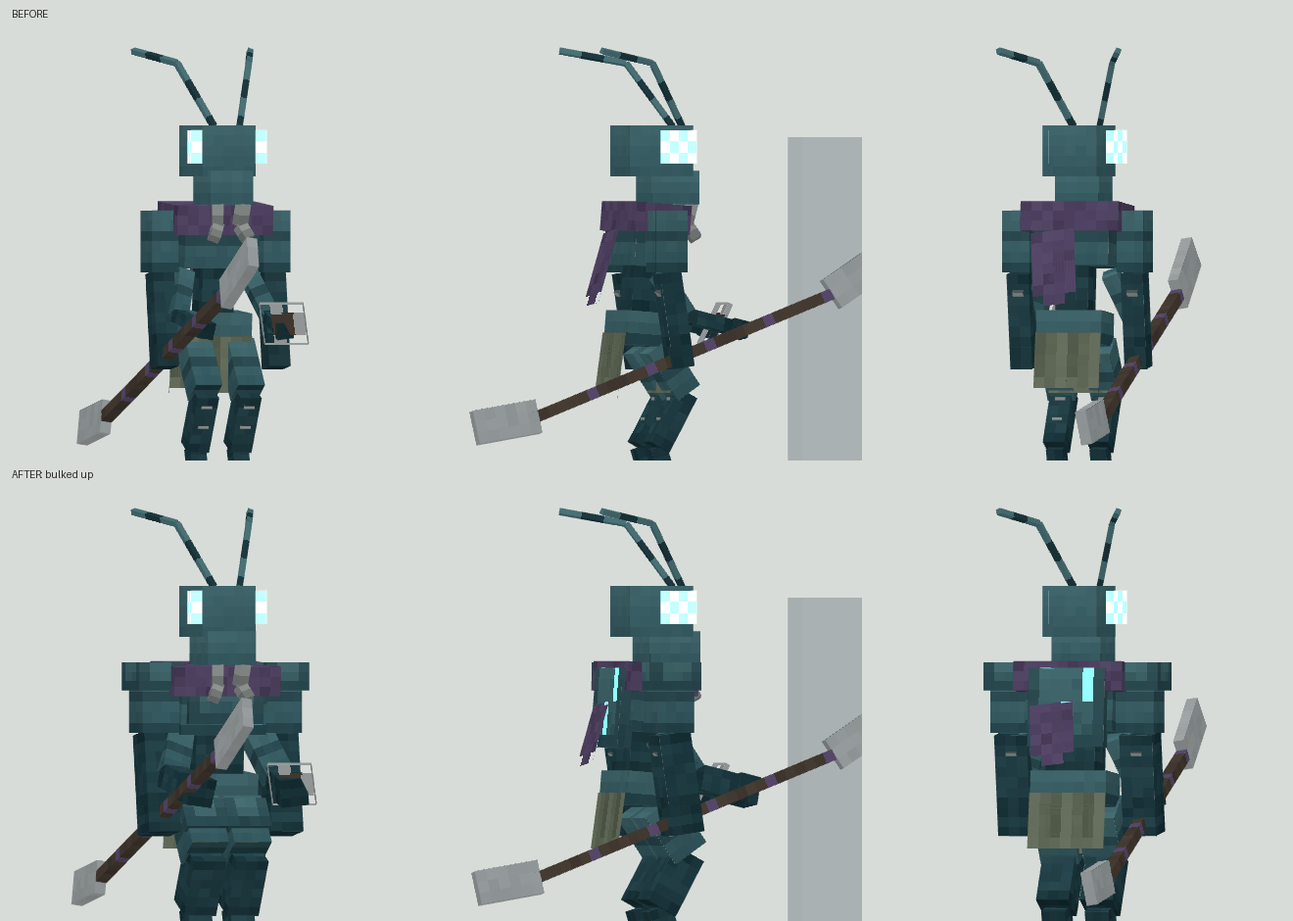
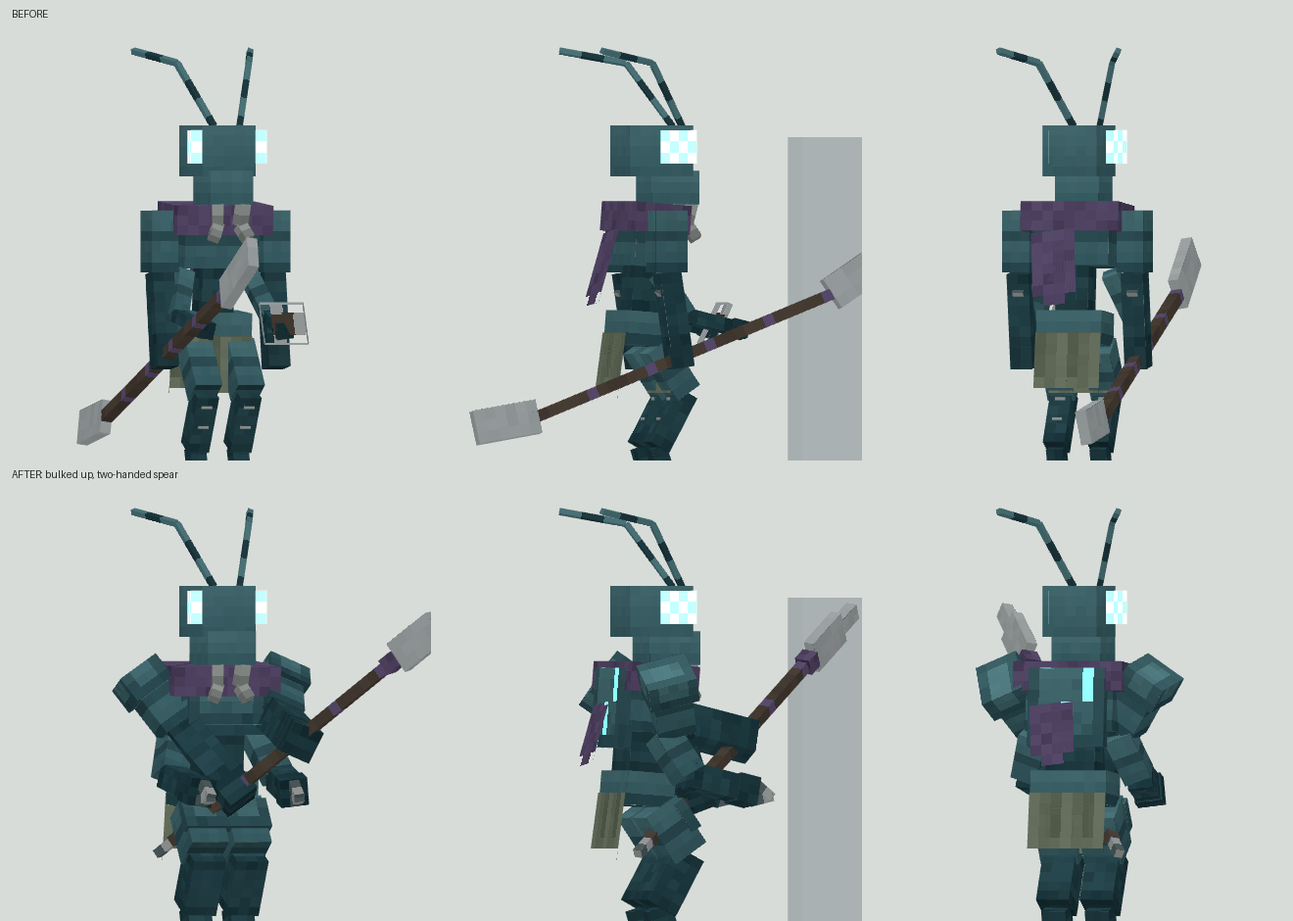
Lancer-Drone: a two-handed spear, clawed lower hands
The double-bladed staff is now a spear (long haft, leaf-shaped head,
butt spike) held in both upper hands at the ready, so no hand hangs
empty; LancerModel keeps the pose in game and thrusts on attack. The
three-pointed throwing blade is gone (it read as an empty frame) and
the lower hands get hooked claws.

Claude-Session: https://claude.ai/code/session_01EWJoGWZ8sZFDomPfmPJbYJ

diff --git a/mods/warfront/src/main/java/com/warfront/client/model/UnitGeometry.java b/mods/warfront/src/main/java/com/warfront/client/model/UnitGeometry.java
@@ -326,103 +326,111 @@ public final class UnitGeometry {
     public static LayerDefinition hive_lancer() {
         MeshDefinition mesh = new MeshDefinition();
         PartDefinition root = mesh.getRoot();
-        PartDefinition p0 = root.addOrReplaceChild("head", CubeListBuilder.create().texOffs(4, 0).addBox(-2.5F, -7.5F, -3F, 5F, 4.5F, 6F).texOffs(0, 41).addBox(-2.25F, -3.5F, -3.75F, 4.5F, 3F, 4.75F),
+        PartDefinition p0 = root.addOrReplaceChild("head", CubeListBuilder.create().texOffs(4, 0).addBox(-2.5F, -7.5F, -3F, 5F, 4.5F, 6F).texOffs(102, 29).addBox(-2.25F, -3.5F, -3.75F, 4.5F, 3F, 4.75F),
                 PartPose.offsetAndRotation(0F, 0F, -0.5F, 0F, 0F, 0F));
-        PartDefinition p1 = p0.addOrReplaceChild("eye_r", CubeListBuilder.create().texOffs(36, 49).addBox(-0.8F, -1.5F, -1.6F, 1F, 3F, 3.2F),
+        PartDefinition p1 = p0.addOrReplaceChild("eye_r", CubeListBuilder.create().texOffs(18, 47).addBox(-0.8F, -1.5F, -1.6F, 1F, 3F, 3.2F),
                 PartPose.offsetAndRotation(-2.4F, -5.6F, -1.6F, 0F, 0.25F, 0F));
-        PartDefinition p2 = p0.addOrReplaceChild("mandible_r", CubeListBuilder.create().texOffs(10, 63).addBox(-0.5F, 0F, -0.5F, 1F, 2F, 1F),
+        PartDefinition p2 = p0.addOrReplaceChild("mandible_r", CubeListBuilder.create().texOffs(122, 55).addBox(-0.5F, 0F, -0.5F, 1F, 2F, 1F),
                 PartPose.offsetAndRotation(-1.2F, -0.6F, -3.4F, 0.25F, 0.3F, 0F));
-        PartDefinition p3 = p2.addOrReplaceChild("mandible_r_tip", CubeListBuilder.create().texOffs(14, 63).addBox(-0.5F, 0F, -0.5F, 1F, 1.5F, 1F),
+        PartDefinition p3 = p2.addOrReplaceChild("mandible_r_tip", CubeListBuilder.create().texOffs(0, 61).addBox(-0.5F, 0F, -0.5F, 1F, 1.5F, 1F),
                 PartPose.offsetAndRotation(0F, 2F, 0F, -0.8F, 0F, 0.35F));
-        PartDefinition p4 = p0.addOrReplaceChild("antenna_r", CubeListBuilder.create().texOffs(20, 41).addBox(-0.25F, -7F, -0.25F, 0.5F, 7F, 0.5F),
+        PartDefinition p4 = p0.addOrReplaceChild("antenna_r", CubeListBuilder.create().texOffs(122, 29).addBox(-0.25F, -7F, -0.25F, 0.5F, 7F, 0.5F),
                 PartPose.offsetAndRotation(-1.2F, -7.4F, -2.4F, -0.55F, -0.2F, -0.25F));
-        PartDefinition p5 = p4.addOrReplaceChild("antenna_r_tip", CubeListBuilder.create().texOffs(46, 49).addBox(-0.25F, -6F, -0.25F, 0.5F, 6F, 0.5F),
+        PartDefinition p5 = p4.addOrReplaceChild("antenna_r_tip", CubeListBuilder.create().texOffs(28, 47).addBox(-0.25F, -6F, -0.25F, 0.5F, 6F, 0.5F),
                 PartPose.offsetAndRotation(0F, -7F, 0F, -0.75F, 0F, -0.15F));
-        PartDefinition p6 = p0.addOrReplaceChild("eye_l", CubeListBuilder.create().texOffs(50, 49).mirror().addBox(-0.2F, -1.5F, -1.6F, 1F, 3F, 3.2F).mirror(false),
+        PartDefinition p6 = p0.addOrReplaceChild("eye_l", CubeListBuilder.create().texOffs(32, 47).mirror().addBox(-0.2F, -1.5F, -1.6F, 1F, 3F, 3.2F).mirror(false),
                 PartPose.offsetAndRotation(2.4F, -5.6F, -1.6F, 0F, -0.25F, 0F));
-        PartDefinition p7 = p0.addOrReplaceChild("mandible_l", CubeListBuilder.create().texOffs(18, 63).mirror().addBox(-0.5F, 0F, -0.5F, 1F, 2F, 1F).mirror(false),
+        PartDefinition p7 = p0.addOrReplaceChild("mandible_l", CubeListBuilder.create().texOffs(4, 61).mirror().addBox(-0.5F, 0F, -0.5F, 1F, 2F, 1F).mirror(false),
                 PartPose.offsetAndRotation(1.2F, -0.6F, -3.4F, 0.25F, -0.3F, 0F));
-        PartDefinition p8 = p7.addOrReplaceChild("mandible_l_tip", CubeListBuilder.create().texOffs(22, 63).mirror().addBox(-0.5F, 0F, -0.5F, 1F, 1.5F, 1F).mirror(false),
+        PartDefinition p8 = p7.addOrReplaceChild("mandible_l_tip", CubeListBuilder.create().texOffs(8, 61).mirror().addBox(-0.5F, 0F, -0.5F, 1F, 1.5F, 1F).mirror(false),
                 PartPose.offsetAndRotation(0F, 2F, 0F, -0.8F, 0F, -0.35F));
-        PartDefinition p9 = p0.addOrReplaceChild("antenna_l", CubeListBuilder.create().texOffs(24, 41).mirror().addBox(-0.25F, -7F, -0.25F, 0.5F, 7F, 0.5F).mirror(false),
+        PartDefinition p9 = p0.addOrReplaceChild("antenna_l", CubeListBuilder.create().texOffs(0, 39).mirror().addBox(-0.25F, -7F, -0.25F, 0.5F, 7F, 0.5F).mirror(false),
                 PartPose.offsetAndRotation(1.2F, -7.4F, -2.4F, -0.55F, 0.2F, 0.25F));
-        PartDefinition p10 = p9.addOrReplaceChild("antenna_l_tip", CubeListBuilder.create().texOffs(60, 49).mirror().addBox(-0.25F, -6F, -0.25F, 0.5F, 6F, 0.5F).mirror(false),
+        PartDefinition p10 = p9.addOrReplaceChild("antenna_l_tip", CubeListBuilder.create().texOffs(42, 47).mirror().addBox(-0.25F, -6F, -0.25F, 0.5F, 6F, 0.5F).mirror(false),
                 PartPose.offsetAndRotation(0F, -7F, 0F, -0.75F, 0F, 0.15F));
         PartDefinition p11 = root.addOrReplaceChild("hat", CubeListBuilder.create(),
                 PartPose.offsetAndRotation(0F, 0F, 0F, 0F, 0F, 0F));
-        PartDefinition p12 = root.addOrReplaceChild("body", CubeListBuilder.create().texOffs(26, 0).addBox(-4F, 0F, -2.5F, 8F, 5.5F, 5F).texOffs(24, 57).addBox(-3.5F, 0.5F, -3.1F, 7F, 4F, 0.75F).texOffs(28, 31).addBox(-3.5F, 0F, 2.2F, 7F, 7F, 1.3F).texOffs(28, 41).addBox(-2.25F, 5.5F, -1.75F, 4.5F, 3.5F, 3.5F).texOffs(46, 41).addBox(-3.5F, 9F, -2.25F, 7F, 3F, 4.5F),
+        PartDefinition p12 = root.addOrReplaceChild("body", CubeListBuilder.create().texOffs(26, 0).addBox(-4F, 0F, -2.5F, 8F, 5.5F, 5F).texOffs(12, 55).addBox(-3.5F, 0.5F, -3.1F, 7F, 4F, 0.75F).texOffs(28, 29).addBox(-3.5F, 0F, 2.2F, 7F, 7F, 1.3F).texOffs(4, 39).addBox(-2.25F, 5.5F, -1.75F, 4.5F, 3.5F, 3.5F).texOffs(22, 39).addBox(-3.5F, 9F, -2.25F, 7F, 3F, 4.5F),
                 PartPose.offsetAndRotation(0F, 0F, 0F, 0.08F, 0F, 0F));
         PartDefinition p13 = p12.addOrReplaceChild("wrap", CubeListBuilder.create().texOffs(52, 0).addBox(-5F, -0.6F, -3.2F, 10F, 2.6F, 6.4F),
                 PartPose.offsetAndRotation(0F, 0F, 0F, 0F, 0F, 0F));
-        PartDefinition p14 = p13.addOrReplaceChild("wrap_tail", CubeListBuilder.create().texOffs(64, 49).addBox(-2F, 0F, 0F, 4F, 7F, 0F),
+        PartDefinition p14 = p13.addOrReplaceChild("wrap_tail", CubeListBuilder.create().texOffs(46, 47).addBox(-2F, 0F, 0F, 4F, 7F, 0F),
                 PartPose.offsetAndRotation(1.5F, 2F, 3.2F, 0.25F, 0F, 0.12F));
-        PartDefinition p15 = p12.addOrReplaceChild("skirt_front", CubeListBuilder.create().texOffs(96, 49).addBox(-3.5F, 0F, 0F, 7F, 6F, 0F),
+        PartDefinition p15 = p12.addOrReplaceChild("skirt_front", CubeListBuilder.create().texOffs(78, 47).addBox(-3.5F, 0F, 0F, 7F, 6F, 0F),
                 PartPose.offsetAndRotation(0F, 11F, -2.4F, -0.06F, 0F, 0F));
-        PartDefinition p16 = p12.addOrReplaceChild("skirt_back", CubeListBuilder.create().texOffs(110, 49).addBox(-3.5F, 0F, 0F, 7F, 6F, 0F),
+        PartDefinition p16 = p12.addOrReplaceChild("skirt_back", CubeListBuilder.create().texOffs(92, 47).addBox(-3.5F, 0F, 0F, 7F, 6F, 0F),
                 PartPose.offsetAndRotation(0F, 11F, 2.4F, 0.06F, 0F, 0F));
-        PartDefinition p17 = p12.addOrReplaceChild("lower_arm_r", CubeListBuilder.create().texOffs(70, 41).addBox(-1.25F, 0F, -1.25F, 2.5F, 4.5F, 2.5F),
+        PartDefinition p17 = p12.addOrReplaceChild("lower_arm_r", CubeListBuilder.create().texOffs(46, 39).addBox(-1.25F, 0F, -1.25F, 2.5F, 4.5F, 2.5F),
                 PartPose.offsetAndRotation(-3.75F, 5.5F, -0.5F, -0.55F, 0F, 0.35F));
-        PartDefinition p18 = p17.addOrReplaceChild("lower_forearm_r", CubeListBuilder.create().texOffs(82, 41).addBox(-1.1F, 0F, -1.1F, 2.2F, 4.5F, 2.2F),
+        PartDefinition p18 = p17.addOrReplaceChild("lower_forearm_r", CubeListBuilder.create().texOffs(58, 39).addBox(-1.1F, 0F, -1.1F, 2.2F, 4.5F, 2.2F),
                 PartPose.offsetAndRotation(0F, 4.5F, 0F, -0.9F, 0F, -0.25F));
-        PartDefinition p19 = p18.addOrReplaceChild("lower_hand_r", CubeListBuilder.create().texOffs(40, 57).addBox(-1.25F, 0F, -1.25F, 2.5F, 2F, 2.5F),
+        PartDefinition p19 = p18.addOrReplaceChild("lower_hand_r", CubeListBuilder.create().texOffs(28, 55).addBox(-1.25F, 0F, -1.25F, 2.5F, 2F, 2.5F),
                 PartPose.offsetAndRotation(0F, 4.5F, 0F, 0F, 0F, 0F));
-        PartDefinition p20 = p12.addOrReplaceChild("lower_arm_l", CubeListBuilder.create().texOffs(94, 41).mirror().addBox(-1.25F, 0F, -1.25F, 2.5F, 4.5F, 2.5F).mirror(false),
+        PartDefinition p20 = p19.addOrReplaceChild("lower_claw_r", CubeListBuilder.create().texOffs(12, 61).addBox(-0.45F, 0F, -0.45F, 0.9F, 2F, 0.9F),
+                PartPose.offsetAndRotation(0F, 2F, -0.8F, 0.45F, 0F, 0F));
+        PartDefinition p21 = p19.addOrReplaceChild("lower_claw_r2", CubeListBuilder.create().texOffs(16, 61).addBox(-0.45F, 0F, -0.45F, 0.9F, 2F, 0.9F),
+                PartPose.offsetAndRotation(0F, 2F, 0.8F, -0.45F, 0F, 0F));
+        PartDefinition p22 = p12.addOrReplaceChild("lower_arm_l", CubeListBuilder.create().texOffs(70, 39).mirror().addBox(-1.25F, 0F, -1.25F, 2.5F, 4.5F, 2.5F).mirror(false),
                 PartPose.offsetAndRotation(3.75F, 5.5F, -0.5F, -0.55F, 0F, -0.35F));
-        PartDefinition p21 = p20.addOrReplaceChild("lower_forearm_l", CubeListBuilder.create().texOffs(106, 41).mirror().addBox(-1.1F, 0F, -1.1F, 2.2F, 4.5F, 2.2F).mirror(false),
+        PartDefinition p23 = p22.addOrReplaceChild("lower_forearm_l", CubeListBuilder.create().texOffs(82, 39).mirror().addBox(-1.1F, 0F, -1.1F, 2.2F, 4.5F, 2.2F).mirror(false),
                 PartPose.offsetAndRotation(0F, 4.5F, 0F, -0.9F, 0F, 0.25F));
-        PartDefinition p22 = p21.addOrReplaceChild("lower_hand_l", CubeListBuilder.create().texOffs(52, 57).mirror().addBox(-1.25F, 0F, -1.25F, 2.5F, 2F, 2.5F).mirror(false),
+        PartDefinition p24 = p23.addOrReplaceChild("lower_hand_l", CubeListBuilder.create().texOffs(40, 55).mirror().addBox(-1.25F, 0F, -1.25F, 2.5F, 2F, 2.5F).mirror(false),
                 PartPose.offsetAndRotation(0F, 4.5F, 0F, 0F, 0F, 0F));
-        PartDefinition p23 = p22.addOrReplaceChild("chatkcha", CubeListBuilder.create().texOffs(64, 57).addBox(-2F, -0.25F, -2F, 4F, 0.5F, 4F),
-                PartPose.offsetAndRotation(0F, 1.2F, -0.6F, 0.2F, 0F, 0.5F));
-        PartDefinition p24 = root.addOrReplaceChild("right_arm", CubeListBuilder.create().texOffs(86, 0).addBox(-2F, -2F, -1.75F, 3.5F, 5.5F, 3.5F).texOffs(0, 49).addBox(-2.5F, -2.75F, -2.25F, 4F, 2.5F, 4.5F),
-                PartPose.offsetAndRotation(-5.5F, 2F, 0F, 0F, 0F, 0F));
-        PartDefinition p25 = p24.addOrReplaceChild("forearm_r", CubeListBuilder.create().texOffs(102, 0).addBox(-1.5F, 0F, -1.5F, 3F, 6.5F, 3F),
+        PartDefinition p25 = p24.addOrReplaceChild("lower_claw_l", CubeListBuilder.create().texOffs(20, 61).mirror().addBox(-0.45F, 0F, -0.45F, 0.9F, 2F, 0.9F).mirror(false),
+                PartPose.offsetAndRotation(0F, 2F, -0.8F, 0.45F, 0F, 0F));
+        PartDefinition p26 = p24.addOrReplaceChild("lower_claw_l2", CubeListBuilder.create().texOffs(24, 61).mirror().addBox(-0.45F, 0F, -0.45F, 0.9F, 2F, 0.9F).mirror(false),
+                PartPose.offsetAndRotation(0F, 2F, 0.8F, -0.45F, 0F, 0F));
+        PartDefinition p27 = root.addOrReplaceChild("right_arm", CubeListBuilder.create().texOffs(86, 0).addBox(-2F, -2F, -1.75F, 3.5F, 5.5F, 3.5F).texOffs(94, 39).addBox(-2.5F, -2.75F, -2.25F, 4F, 2.5F, 4.5F),
+                PartPose.offsetAndRotation(-5.5F, 2F, 0F, -0.3F, 0F, -0.6F));
+        PartDefinition p28 = p27.addOrReplaceChild("forearm_r", CubeListBuilder.create().texOffs(102, 0).addBox(-1.5F, 0F, -1.5F, 3F, 6.5F, 3F),
                 PartPose.offsetAndRotation(-0.25F, 3.5F, 0F, -0.15F, 0F, 0F));
-        PartDefinition p26 = p25.addOrReplaceChild("forearm_r_spur", CubeListBuilder.create().texOffs(108, 57).addBox(-0.5F, -2.5F, -0.5F, 1F, 2.5F, 1F),
+        PartDefinition p29 = p28.addOrReplaceChild("forearm_r_spur", CubeListBuilder.create().texOffs(86, 55).addBox(-0.5F, -2.5F, -0.5F, 1F, 2.5F, 1F),
                 PartPose.offsetAndRotation(0F, 2F, 1.4F, 1F, 0F, 0F));
-        PartDefinition p27 = p25.addOrReplaceChild("hand_r", CubeListBuilder.create().texOffs(0, 57).addBox(-1.5F, 0F, -1.5F, 3F, 2.5F, 3F),
+        PartDefinition p30 = p28.addOrReplaceChild("hand_r", CubeListBuilder.create().texOffs(106, 47).addBox(-1.5F, 0F, -1.5F, 3F, 2.5F, 3F),
                 PartPose.offsetAndRotation(0F, 6.5F, 0F, 0F, 0F, 0F));
-        PartDefinition p28 = p27.addOrReplaceChild("gythka", CubeListBuilder.create().texOffs(0, 0).addBox(-0.5F, -15F, -0.5F, 1F, 30F, 1F),
-                PartPose.offsetAndRotation(0F, 1F, -0.5F, 1.35F, 0F, 0.15F));
-        PartDefinition p29 = p28.addOrReplaceChild("gythka_top", CubeListBuilder.create().texOffs(114, 0).addBox(-0.5F, -7F, -1.5F, 1F, 7F, 3F),
-                PartPose.offsetAndRotation(0F, -15F, 0F, -0.2F, 0F, 0F));
-        PartDefinition p30 = p28.addOrReplaceChild("gythka_bottom", CubeListBuilder.create().texOffs(46, 31).addBox(-0.5F, 0F, -1.5F, 1F, 6F, 3F),
-                PartPose.offsetAndRotation(0F, 15F, 0F, 0.2F, 0F, 0F));
-        PartDefinition p31 = root.addOrReplaceChild("left_arm", CubeListBuilder.create().texOffs(0, 31).mirror().addBox(-1.5F, -2F, -1.75F, 3.5F, 5.5F, 3.5F).mirror(false).texOffs(18, 49).mirror().addBox(-1.5F, -2.75F, -2.25F, 4F, 2.5F, 4.5F).mirror(false),
-                PartPose.offsetAndRotation(5.5F, 2F, 0F, 0F, 0F, 0F));
-        PartDefinition p32 = p31.addOrReplaceChild("forearm_l", CubeListBuilder.create().texOffs(16, 31).mirror().addBox(-1.5F, 0F, -1.5F, 3F, 6.5F, 3F).mirror(false),
-                PartPose.offsetAndRotation(0.25F, 3.5F, 0F, -0.15F, 0F, 0F));
-        PartDefinition p33 = p32.addOrReplaceChild("forearm_l_spur", CubeListBuilder.create().texOffs(112, 57).mirror().addBox(-0.5F, -2.5F, -0.5F, 1F, 2.5F, 1F).mirror(false),
+        PartDefinition p31 = p30.addOrReplaceChild("spear", CubeListBuilder.create().texOffs(0, 0).addBox(-0.5F, -20F, -0.5F, 1F, 28F, 1F),
+                PartPose.offsetAndRotation(0F, 1.25F, 0F, 1.7F, -0.78F, 0F));
+        PartDefinition p32 = p31.addOrReplaceChild("spear_socket", CubeListBuilder.create().texOffs(90, 55).addBox(-0.75F, -1.5F, -0.75F, 1.5F, 1.5F, 1.5F),
+                PartPose.offsetAndRotation(0F, -20F, 0F, 0F, 0F, 0F));
+        PartDefinition p33 = p31.addOrReplaceChild("spear_head", CubeListBuilder.create().texOffs(112, 39).addBox(-0.5F, -5F, -1.5F, 1F, 5F, 3F).texOffs(52, 55).addBox(-0.5F, -7.5F, -0.75F, 1F, 2.5F, 1.5F),
+                PartPose.offsetAndRotation(0F, -21.5F, 0F, 0F, 0F, 0F));
+        PartDefinition p34 = p31.addOrReplaceChild("spear_butt", CubeListBuilder.create().texOffs(28, 61).addBox(-0.4F, 0F, -0.4F, 0.8F, 2F, 0.8F),
+                PartPose.offsetAndRotation(0F, 8F, 0F, 0F, 0F, 0F));
+        PartDefinition p35 = root.addOrReplaceChild("left_arm", CubeListBuilder.create().texOffs(0, 29).mirror().addBox(-1.5F, -2F, -1.75F, 3.5F, 5.5F, 3.5F).mirror(false).texOffs(0, 47).mirror().addBox(-1.5F, -2.75F, -2.25F, 4F, 2.5F, 4.5F).mirror(false),
+                PartPose.offsetAndRotation(5.5F, 2F, 0F, -0.9F, 0F, 0.4F));
+        PartDefinition p36 = p35.addOrReplaceChild("forearm_l", CubeListBuilder.create().texOffs(16, 29).mirror().addBox(-1.5F, 0F, -1.5F, 3F, 6.5F, 3F).mirror(false),
+                PartPose.offsetAndRotation(0.25F, 3.5F, 0F, -0.4F, 0F, 0F));
+        PartDefinition p37 = p36.addOrReplaceChild("forearm_l_spur", CubeListBuilder.create().texOffs(98, 55).mirror().addBox(-0.5F, -2.5F, -0.5F, 1F, 2.5F, 1F).mirror(false),
                 PartPose.offsetAndRotation(0F, 2F, 1.4F, 1F, 0F, 0F));
-        PartDefinition p34 = p32.addOrReplaceChild("hand_l", CubeListBuilder.create().texOffs(12, 57).mirror().addBox(-1.5F, 0F, -1.5F, 3F, 2.5F, 3F).mirror(false),
+        PartDefinition p38 = p36.addOrReplaceChild("hand_l", CubeListBuilder.create().texOffs(0, 55).mirror().addBox(-1.5F, 0F, -1.5F, 3F, 2.5F, 3F).mirror(false),
                 PartPose.offsetAndRotation(0F, 6.5F, 0F, 0F, 0F, 0F));
-        PartDefinition p35 = root.addOrReplaceChild("right_leg", CubeListBuilder.create().texOffs(54, 31).addBox(-1.75F, 0F, -1.75F, 3.5F, 5F, 3.5F).texOffs(116, 57).addBox(-2F, 0.5F, -2.1F, 4F, 3F, 1F),
+        PartDefinition p39 = root.addOrReplaceChild("right_leg", CubeListBuilder.create().texOffs(46, 29).addBox(-1.75F, 0F, -1.75F, 3.5F, 5F, 3.5F).texOffs(102, 55).addBox(-2F, 0.5F, -2.1F, 4F, 3F, 1F),
                 PartPose.offsetAndRotation(-2F, 12F, 0F, -0.6F, 0F, 0F));
-        PartDefinition p36 = p35.addOrReplaceChild("shin_r", CubeListBuilder.create().texOffs(70, 31).addBox(-1.5F, 0F, -1.5F, 3F, 5.5F, 3F),
+        PartDefinition p40 = p39.addOrReplaceChild("shin_r", CubeListBuilder.create().texOffs(62, 29).addBox(-1.5F, 0F, -1.5F, 3F, 5.5F, 3F),
                 PartPose.offsetAndRotation(0F, 5F, 0F, 1.1F, 0F, 0F));
-        PartDefinition p37 = p36.addOrReplaceChild("ankle_r", CubeListBuilder.create().texOffs(72, 49).addBox(-1.1F, 0F, -1.1F, 2.2F, 3.5F, 2.2F),
+        PartDefinition p41 = p40.addOrReplaceChild("ankle_r", CubeListBuilder.create().texOffs(54, 47).addBox(-1.1F, 0F, -1.1F, 2.2F, 3.5F, 2.2F),
                 PartPose.offsetAndRotation(0F, 5.5F, 0F, -0.8F, 0F, 0F));
-        PartDefinition p38 = p37.addOrReplaceChild("foot_r", CubeListBuilder.create().texOffs(80, 57).addBox(-1.5F, -0.5F, -2.25F, 3F, 1F, 3.5F),
+        PartDefinition p42 = p41.addOrReplaceChild("foot_r", CubeListBuilder.create().texOffs(58, 55).addBox(-1.5F, -0.5F, -2.25F, 3F, 1F, 3.5F),
                 PartPose.offsetAndRotation(0F, 3.5F, 0F, 0.3F, 0F, 0F));
-        PartDefinition p39 = p38.addOrReplaceChild("toe_r", CubeListBuilder.create().texOffs(26, 63).addBox(-0.5F, -0.5F, -2F, 1F, 1F, 2F),
+        PartDefinition p43 = p42.addOrReplaceChild("toe_r", CubeListBuilder.create().texOffs(32, 61).addBox(-0.5F, -0.5F, -2F, 1F, 1F, 2F),
                 PartPose.offsetAndRotation(0F, 0F, -2F, 0.4F, 0F, 0F));
-        PartDefinition p40 = p36.addOrReplaceChild("shin_spur_r0", CubeListBuilder.create().texOffs(32, 63).addBox(-0.5F, -2F, -0.5F, 1F, 2F, 1F),
+        PartDefinition p44 = p40.addOrReplaceChild("shin_spur_r0", CubeListBuilder.create().texOffs(38, 61).addBox(-0.5F, -2F, -0.5F, 1F, 2F, 1F),
                 PartPose.offsetAndRotation(0F, 1.5F, 0.9F, 1.1F, 0F, 0F));
-        PartDefinition p41 = p36.addOrReplaceChild("shin_spur_r1", CubeListBuilder.create().texOffs(36, 63).addBox(-0.5F, -2F, -0.5F, 1F, 2F, 1F),
+        PartDefinition p45 = p40.addOrReplaceChild("shin_spur_r1", CubeListBuilder.create().texOffs(42, 61).addBox(-0.5F, -2F, -0.5F, 1F, 2F, 1F),
                 PartPose.offsetAndRotation(0F, 3.5F, 0.9F, 1.1F, 0F, 0F));
-        PartDefinition p42 = root.addOrReplaceChild("left_leg", CubeListBuilder.create().texOffs(82, 31).mirror().addBox(-1.75F, 0F, -1.75F, 3.5F, 5F, 3.5F).mirror(false).texOffs(0, 63).mirror().addBox(-2F, 0.5F, -2.1F, 4F, 3F, 1F).mirror(false),
+        PartDefinition p46 = root.addOrReplaceChild("left_leg", CubeListBuilder.create().texOffs(74, 29).mirror().addBox(-1.75F, 0F, -1.75F, 3.5F, 5F, 3.5F).mirror(false).texOffs(112, 55).mirror().addBox(-2F, 0.5F, -2.1F, 4F, 3F, 1F).mirror(false),
                 PartPose.offsetAndRotation(2F, 12F, 0F, -0.6F, 0F, 0F));
-        PartDefinition p43 = p42.addOrReplaceChild("shin_l", CubeListBuilder.create().texOffs(98, 31).mirror().addBox(-1.5F, 0F, -1.5F, 3F, 5.5F, 3F).mirror(false),
+        PartDefinition p47 = p46.addOrReplaceChild("shin_l", CubeListBuilder.create().texOffs(90, 29).mirror().addBox(-1.5F, 0F, -1.5F, 3F, 5.5F, 3F).mirror(false),
                 PartPose.offsetAndRotation(0F, 5F, 0F, 1.1F, 0F, 0F));
-        PartDefinition p44 = p43.addOrReplaceChild("ankle_l", CubeListBuilder.create().texOffs(84, 49).mirror().addBox(-1.1F, 0F, -1.1F, 2.2F, 3.5F, 2.2F).mirror(false),
+        PartDefinition p48 = p47.addOrReplaceChild("ankle_l", CubeListBuilder.create().texOffs(66, 47).mirror().addBox(-1.1F, 0F, -1.1F, 2.2F, 3.5F, 2.2F).mirror(false),
                 PartPose.offsetAndRotation(0F, 5.5F, 0F, -0.8F, 0F, 0F));
-        PartDefinition p45 = p44.addOrReplaceChild("foot_l", CubeListBuilder.create().texOffs(94, 57).mirror().addBox(-1.5F, -0.5F, -2.25F, 3F, 1F, 3.5F).mirror(false),
+        PartDefinition p49 = p48.addOrReplaceChild("foot_l", CubeListBuilder.create().texOffs(72, 55).mirror().addBox(-1.5F, -0.5F, -2.25F, 3F, 1F, 3.5F).mirror(false),
                 PartPose.offsetAndRotation(0F, 3.5F, 0F, 0.3F, 0F, 0F));
-        PartDefinition p46 = p45.addOrReplaceChild("toe_l", CubeListBuilder.create().texOffs(40, 63).mirror().addBox(-0.5F, -0.5F, -2F, 1F, 1F, 2F).mirror(false),
+        PartDefinition p50 = p49.addOrReplaceChild("toe_l", CubeListBuilder.create().texOffs(46, 61).mirror().addBox(-0.5F, -0.5F, -2F, 1F, 1F, 2F).mirror(false),
                 PartPose.offsetAndRotation(0F, 0F, -2F, 0.4F, 0F, 0F));
-        PartDefinition p47 = p43.addOrReplaceChild("shin_spur_l0", CubeListBuilder.create().texOffs(46, 63).mirror().addBox(-0.5F, -2F, -0.5F, 1F, 2F, 1F).mirror(false),
+        PartDefinition p51 = p47.addOrReplaceChild("shin_spur_l0", CubeListBuilder.create().texOffs(52, 61).mirror().addBox(-0.5F, -2F, -0.5F, 1F, 2F, 1F).mirror(false),
                 PartPose.offsetAndRotation(0F, 1.5F, 0.9F, 1.1F, 0F, 0F));
-        PartDefinition p48 = p43.addOrReplaceChild("shin_spur_l1", CubeListBuilder.create().texOffs(50, 63).mirror().addBox(-0.5F, -2F, -0.5F, 1F, 2F, 1F).mirror(false),
+        PartDefinition p52 = p47.addOrReplaceChild("shin_spur_l1", CubeListBuilder.create().texOffs(56, 61).mirror().addBox(-0.5F, -2F, -0.5F, 1F, 2F, 1F).mirror(false),
                 PartPose.offsetAndRotation(0F, 3.5F, 0.9F, 1.1F, 0F, 0F));
         return LayerDefinition.create(mesh, 128, 128);
     }

diff --git a/mods/warfront/tools/hive_units.py b/mods/warfront/tools/hive_units.py
@@ -46,8 +46,14 @@ def _leg(side_x, thigh_mat, shin_mat, spikes=True):
 
 # ----------------------------------------------------------------------------- Lancer-Drone
 
+# Upper-arm pose for the two-handed spear grip (radians). Mirrored in LancerModel.java; if you change these,
+# re-solve the spear angle so the haft still runs through the left hand.
+SPEAR_ARM_R = (-0.3, 0, -0.6)
+SPEAR_ARM_L = (-0.9, 0, 0.4)
+SPEAR_FOREARM_L = -0.4
+
 def hive_lancer():
-    """Hive spearman: a sturdy, armored four-armed ant warrior with a double-bladed polearm and a throwing blade."""
+    """Hive spearman: a sturdy, armored four-armed ant warrior with a two-handed spear and clawed lower hands."""
     head = part("head", pivot=(0, 0, -0.5), boxes=[
         box((-2.5, -7.5, -3), (5, 4.5, 6), "hc_head"),
         box((-2.25, -3.5, -3.75), (4.5, 3, 4.75), "hc_head"),
@@ -68,10 +74,13 @@ def hive_lancer():
                          part("lower_forearm_r", pivot=(0, 4.5, 0), rot=(-0.9, 0, -0.25),
                               boxes=[box((-1.1, 0, -1.1), (2.2, 4.5, 2.2), "hc_dark")], children=[
                                   part("lower_hand_r", pivot=(0, 4.5, 0),
-                                       boxes=[box((-1.25, 0, -1.25), (2.5, 2, 2.5), "hc_dark")])])])
+                                       boxes=[box((-1.25, 0, -1.25), (2.5, 2, 2.5), "hc_dark")], children=[
+                                           # Two hooked claw fingers on each lower hand.
+                                           part("lower_claw_r", pivot=(0, 2, -0.8), rot=(0.45, 0, 0),
+                                                boxes=[box((-0.45, 0, -0.45), (0.9, 2, 0.9), "hook")]),
+                                           part("lower_claw_r2", pivot=(0, 2, 0.8), rot=(-0.45, 0, 0),
+                                                boxes=[box((-0.45, 0, -0.45), (0.9, 2, 0.9), "hook")])])])])
     lower_arm_l = mirror(lower_arm)
-    attach({"parts": [lower_arm_l]}, "lower_hand_l",
-           part("chatkcha", pivot=(0, 1.2, -0.6), rot=(0.2, 0, 0.5), boxes=[box((-2, -0.25, -2), (4, 0.5, 4), "chatkcha")]))
 
     body = part("body", rot=(0.08, 0, 0), boxes=[
         box((-4, 0, -2.5), (8, 5.5, 5), "hc_plate"),                      # chest
@@ -87,20 +96,28 @@ def hive_lancer():
         lower_arm, lower_arm_l,
     ])
 
-    arm = part("right_arm", pivot=(-5.5, 2, 0), boxes=[box((-2, -2, -1.75), (3.5, 5.5, 3.5), "hc_plate"),
-                                                       box((-2.5, -2.75, -2.25), (4, 2.5, 4.5), "hb_shell")], children=[
+    # Upper arms hold one spear in both hands at the ready: the rear (right) hand at the hip, the front (left)
+    # hand forward, the spearhead angled up and across. LancerModel keeps the same pose in game.
+    arm = part("right_arm", pivot=(-5.5, 2, 0), rot=SPEAR_ARM_R,
+               boxes=[box((-2, -2, -1.75), (3.5, 5.5, 3.5), "hc_plate"),
+                      box((-2.5, -2.75, -2.25), (4, 2.5, 4.5), "hb_shell")], children=[
         part("forearm_r", pivot=(-0.25, 3.5, 0), rot=(-0.15, 0, 0),
              boxes=[box((-1.5, 0, -1.5), (3, 6.5, 3), "hc_dark")], children=[
                  part("forearm_r_spur", pivot=(0, 2, 1.4), rot=(1.0, 0, 0), boxes=[box((-0.5, -2.5, -0.5), (1, 2.5, 1), "spike")]),
                  part("hand_r", pivot=(0, 6.5, 0), boxes=[box((-1.5, 0, -1.5), (3, 2.5, 3), "hc_dark")])])])
     arm_l = mirror(arm)
-    # The gythka: a long haft with a curved blade at each end, gripped in the upper right hand.
-    attach({"parts": [arm]}, "hand_r", part("gythka", pivot=(0, 1, -0.5), rot=(1.35, 0, 0.15),
-                               boxes=[box((-0.5, -15, -0.5), (1, 30, 1), "haft")], children=[
-                                   part("gythka_top", pivot=(0, -15, 0), rot=(-0.2, 0, 0),
-                                        boxes=[box((-0.5, -7, -1.5), (1, 7, 3), "blade")]),
-                                   part("gythka_bottom", pivot=(0, 15, 0), rot=(0.2, 0, 0),
-                                        boxes=[box((-0.5, 0, -1.5), (1, 6, 3), "blade")])]))
+    arm_l["rot"] = list(SPEAR_ARM_L)
+    find({"parts": [arm_l]}, "forearm_l")["rot"] = [SPEAR_FOREARM_L, 0, 0]
+    # The spear: a long haft through both hands, a leaf-shaped head with a bound socket, and a butt spike.
+    attach({"parts": [arm]}, "hand_r", part("spear", pivot=(0, 1.25, 0), rot=(1.7, -0.78, 0),
+                               boxes=[box((-0.5, -20, -0.5), (1, 28, 1), "haft")], children=[
+                                   part("spear_socket", pivot=(0, -20, 0),
+                                        boxes=[box((-0.75, -1.5, -0.75), (1.5, 1.5, 1.5), "wrap")]),
+                                   part("spear_head", pivot=(0, -21.5, 0),
+                                        boxes=[box((-0.5, -5, -1.5), (1, 5, 3), "blade"),
+                                               box((-0.5, -7.5, -0.75), (1, 2.5, 1.5), "blade")]),
+                                   part("spear_butt", pivot=(0, 8, 0),
+                                        boxes=[box((-0.4, 0, -0.4), (0.8, 2, 0.8), "spike")])]))
 
     leg = _leg(-2, "hc_plate", "hc_dark")
     return {"id": "hive_lancer", "tex": [128, 128],

diff --git a/mods/warfront/src/main/java/com/warfront/client/model/LancerModel.java b/mods/warfront/src/main/java/com/warfront/client/model/LancerModel.java
@@ -6,7 +6,8 @@ import net.minecraft.client.model.geom.ModelPart;
 import net.minecraft.util.Mth;
 
 /**
- * The Hive Lancer-Drone: four arms, antennae and bent-back legs. Geometry comes from
+ * The Hive Lancer-Drone: four arms, antennae and bent-back legs, with a spear held in both upper hands. Geometry
+ * comes from
  * {@link UnitGeometry#hive_lancer()}; this class only animates it.
  */
 public class LancerModel extends HumanoidModel<SoldierEntity> {
@@ -44,9 +45,15 @@ public class LancerModel extends HumanoidModel<SoldierEntity> {
         body.xRot += bodyPitch;
         rightLeg.xRot += legPitch;
         leftLeg.xRot += legPitch;
-        // Upper arms carry the polearm at the ready.
-        rightArm.xRot -= 0.35F;
-        leftArm.xRot -= 0.25F;
+        // Upper arms hold the spear in both hands at the ready (same pose as SPEAR_ARM_R/L in hive_units.py). Both
+        // arms move together so the front hand stays on the haft; an attack thrusts the spear forward.
+        float carry = Mth.cos(limbSwing * 0.6662F) * limbSwingAmount * 0.12F - attackTime * 0.9F;
+        rightArm.xRot = -0.3F + carry;
+        rightArm.yRot = 0F;
+        rightArm.zRot = -0.6F;
+        leftArm.xRot = -0.9F + carry;
+        leftArm.yRot = 0F;
+        leftArm.zRot = 0.4F;
         // The lower arms swing against the stride; antennae twitch.
         float swing = Mth.cos(limbSwing * 0.6662F) * limbSwingAmount * 0.6F;
         lowerArmR.xRot = lowerArmX + swing;

diff --git a/tools/codex/build_codex.py b/tools/codex/build_codex.py
@@ -335,7 +335,7 @@ def main():
         "%%HIVE_SHOTS%%": shots([
             ("hive-units-render.png", "Lancer-Drone, then the Deepmaw, each in the Hive's colors and the Swarm's: front, side and back.", True),
             ("hive-beast-lobster.png", "The Deepmaw as a lobster centaur: front, side and top in the Hive's and the Swarm's colors, then the face next to the reference.", True),
-            ("hive-lancer-bulk.png", "Lancer-Drone before and after bulking up.", True),
+            ("hive-lancer-bulk.png", "Lancer-Drone before, and after bulking up with a two-handed spear.", True),
             ("hive-spearman.png", "Spearman reference.", False),
             ("hive-beast.png", "Beast reference.", False),
         ]),

diff --git a/mods/warfront/tools/units.py b/mods/warfront/tools/units.py
@@ -1126,7 +1126,7 @@ public final class UnitGeometry {{
 
 import worker_gear
 import hive_units
-hive_units.bind(dict(part=part, box=box, mirror=mirror, attach=attach, hexc=hexc, mix=mix, shade=shade, glow=glow,
+hive_units.bind(dict(part=part, box=box, mirror=mirror, attach=attach, find=find, hexc=hexc, mix=mix, shade=shade, glow=glow,
                      edge=edge))
 worker_gear.bind(dict(part=part, box=box, mirror=mirror, overlay=overlay, attach=attach, find=find, hexc=hexc,
                       mix=mix, shade=shade, glow=glow, edge=edge, leather_px=leather_px, iron_px=iron_px,

diff --git a/docs/art-reference/NOTES.md b/docs/art-reference/NOTES.md
@@ -52,7 +52,9 @@ These drive the soldier models (3D parts), skins and unit sizes.
 - **Colors:** orange to rust chitin, with darker segment joints. Should shift toward the Hive's sculk look if we
   recolor the Hive, keeping the green eyes.
 - **Owner direction:** sculk colors (settled). Bulk it up: thicker limbs and more chitin plating (shoulders,
-  breastplate, back shell), same height and weapons. Render: `hive-lancer-bulk.png`.
+  breastplate, back shell), same height. The weapon is a plain spear, not a double-bladed staff, held in both
+  upper hands so no hand hangs empty; drop the throwing blade (it read as an empty frame). Lower hands clawed.
+  Render: `hive-lancer-bulk.png`.
 
 ## Hive: beast unit - `hive-beast.png`
 - A Hive war beast, not the player character. Look at the picture only; ignore the book text.
